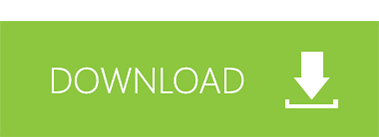
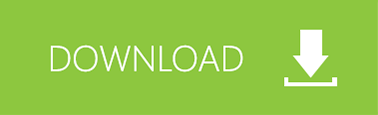
added downloads links

diff --git a/webPage/source/latestNews.html b/webPage/source/latestNews.html
@@ -53,7 +53,16 @@
 	<body>
 		<div class="myBox">
 			<ol>
-				
+
+
+				<li><em>January 2016</em>
+					<ol>
+						<li>New website!</li>
+					</ol>
+				</li>
+			<br>
+
+
 				<li><em>December 2015</em>
 					<ol>
 						<li>Readying gemc 2.3</li>

diff --git a/webPage/source/downloads.rst b/webPage/source/downloads.rst
@@ -3,13 +3,69 @@ GEMC Dowloads
 =============
 
 
+.. |downloadDevel| image:: download-button.png
+	:width: 110pt
+	:target: http://jlab.org/12gev_phys/packages/dmg/gemc-devel.dmg
 
-+---------------------------------------------------------------------+
-|          Mac OS app (DMG)                                           |
-+--------------+------------------------------------------------------+
-|   Version    |                 quantity                             |
-+--------------+------------------------------------------------------+
-|     2.2      |       **Number of particles**                        |
-+--------------+------------------------------------------------------+
-|     devel    |       Number of target nucleons                      |
-+--------------+------------------------------------------------------+
+.. |download2.28| image:: download-button.png
+	:width: 110pt
+	:target: http://jlab.org/12gev_phys/packages/dmg/gemc-2.2.dmg
+
+.. |download2.210| image:: download-button.png
+	:width: 110pt
+	:target: http://jlab.org/12gev_phys/packages/dmg/gemc-2.2.y.dmg
+
+
++-----------------------------------------------------------------+
+|          Mac OS app (DMG)                                       |
++--------------+------------------+----------+--------------------+
+|   Version    |  OS Version      |   Size   |                    |
++--------------+------------------+----------+--------------------+
+|   **devel**  |    10.10 and up  |  608 MB  | |downloadButton|   |
++--------------+------------------+----------+--------------------+
+|   **2.2**    |    10.8 and up   |  471 MB  | |downloadButton|   |
++--------------+------------------+----------+--------------------+
+|   **2.2**    |    10.10 and up  |  586 MB  | |downloadButton|   |
++--------------+------------------+----------+--------------------+
+
+|
+
++-----------------------------------------------------------------+
+|          Fedora Line                                            |
++--------------+------------------+----------+--------------------+
+|   Version    |  OS Version      |   Size   |                    |
++--------------+------------------+----------+--------------------+
+|     devel    |    23            |          | coming soon!       |
++--------------+------------------+----------+--------------------+
+|     2.2      |    23            |          | comong soon!       |
++--------------+------------------+----------+--------------------+
+
+|
+
++-----------------------------------------------------------------+
+|          Ubuntu Line                                            |
++--------------+------------------+----------+--------------------+
+|   Version    |  OS Version      |   Size   |                    |
++--------------+------------------+----------+--------------------+
+|     devel    |    14.04         |          | coming soon!       |
++--------------+------------------+----------+--------------------+
+|     2.2      |    14.04         |          | comong soon!       |
++--------------+------------------+----------+--------------------+
+
+
+
+
+Geometry Downloads
+------------------
+`text factory experiment tarball <http://jlab.org/12gev_phys/packages/gcards/experiments-devel.tar>`_
+
+
+Events:
+-------
+`10 Deep Inelastic Scattering events in LUND format <http://jlab.org/12gev_phys/packages/gcards/dis.dat>`_
+
+
+GCards:
+-------
+`CLAS12 Experimental setup <http://jlab.org/12gev_phys/packages/gcards/clas12.php>`_
+`HPS Experimental setup <http://jlab.org/12gev_phys/packages/gcards/hps.php>`_
